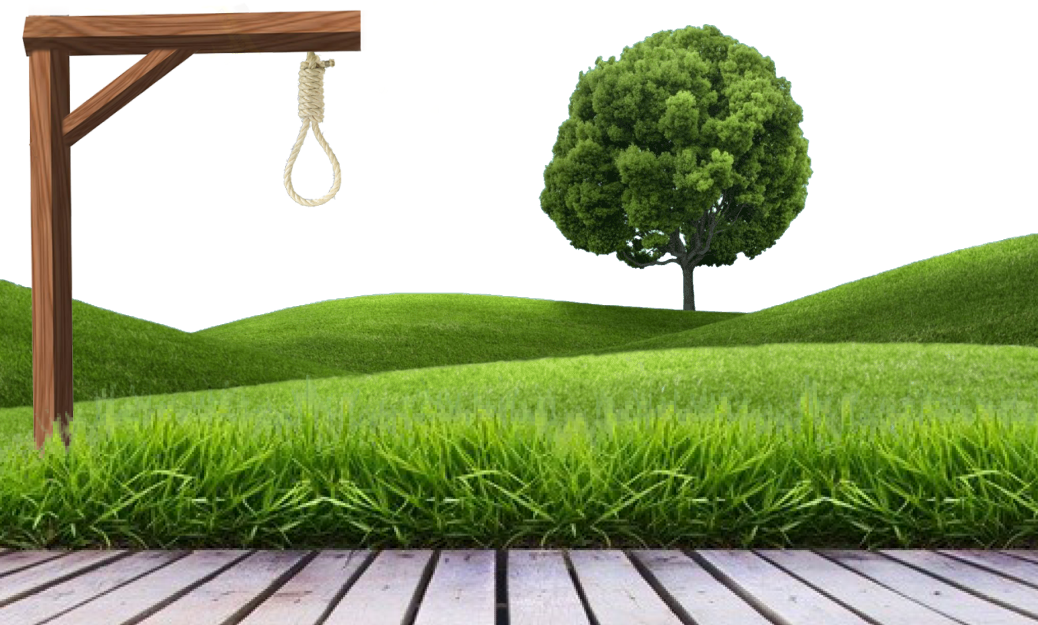
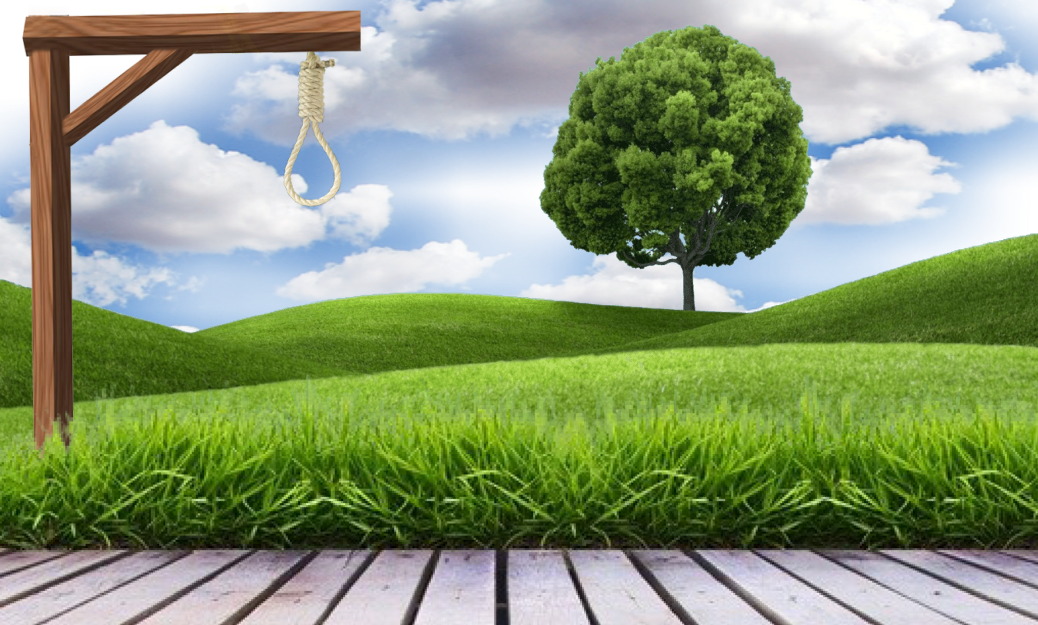
Updating to ALMOST work

Changed region(s): [[0.0617, 0.0, 1.0, 0.5472], [0.0, 0.1824, 0.0308, 0.456]]

diff --git a/DrawScene.hpp b/DrawScene.hpp
@@ -3,29 +3,47 @@
 #include "WordManager.hpp"
 #include <atomic>
 #include <optional>
+#include <iostream>
 
 #define MAX_TRIES 5
 #define WHITE ImColor(255, 255, 255, 255)
 
 bool debug = true;
+bool game = true;
+
 Renderer* RENDERER = new Renderer;
 std::optional<string> RandWord = RandomWord();
 
+const char* message = "";
+char letter;
+
+vector<char> used;
+
 void DrawScene()
-{	
-	auto word = RandWord.value().c_str();
+{
+	int NumWrongGuesses = 0;
+	auto word = RandWord.value();
 
-    // Handle Float to Char and Display FPS
-    char buffer[64];
-    int ret = snprintf(buffer, sizeof buffer, "%.f FPS", ImGui::GetIO().Framerate);
-    RENDERER->DrawTextW(ImVec2(1, 1), WHITE, buffer);
+	// Handle Float to Char and Display FPS
+	char buffer[64];
+	int ret = snprintf(buffer, sizeof buffer, "%.f FPS", ImGui::GetIO().Framerate);
+	RENDERER->DrawTextW(ImVec2(1, 1), WHITE, buffer);
 
-	// DEBUG: Get a new word when button is pressed.
+	// DEBUG: Display Debug Info about the Game.
 	if (debug) {
-		ImGui::Begin("Debug", &debug);
+		ImGui::Begin("Debug", &debug, ImGuiWindowFlags_NoResize);
+		ImGui::SetWindowSize(ImVec2(250, 100));
 		ImGui::Text("Current Word: %s", word);
+		ImGui::Text("Current Number of Guesses: %i", NumWrongGuesses);
 		ImGui::End();
 	}
+
+	// Draw the Bottom where all the text goes.
+	ImGui::Begin("Game", &game, ImGuiWindowFlags_NoResize | ImGuiWindowFlags_NoMove | ImGuiWindowFlags_NoTitleBar);
+	ImGui::SetWindowSize(ImVec2(1020, 100));
+	ImGui::SetWindowPos(ImVec2(0, 576));
+	ImGui::Text(message);
+	ImGui::End();
 
 	// Draw Head
 	RENDERER->DrawFilledCircle(ImVec2(305, 125), 50, 50.f, WHITE);
@@ -41,6 +59,32 @@ void DrawScene()
 	RENDERER->DrawLine(ImVec2(305, 200), ImVec2(255, 250), WHITE, 10); // Right Arm
 	RENDERER->DrawLine(ImVec2(305, 200), ImVec2(355, 250), WHITE, 10); // Left Arm
 
-    // Draw Word
-    RENDERER->DrawTextW(ImVec2(500, 200), WHITE, word);
+	// Initialize the secret word with the * character.
+	string HiddenWord(word.length(), '*');
+
+	// Key Press Loop
+	for (letter = 'A'; letter <= 'Z'; letter++) {
+		// If a key 'A' through 'Z' is pressed.
+		if (ImGui::IsKeyPressed(letter))
+		{
+			// Get the current word length
+			for (int i = 0; i < word.length(); ++i) {
+				// If the guess is correct, fill secret word with the letter.
+				if (word[i] == letter)
+				{
+					
+					HiddenWord[i] = letter;
+					message = "You found a letter! Isn't that exciting!";
+				}
+				// Otherwise increment the number of wrong guesses.
+				else
+				{
+					NumWrongGuesses = NumWrongGuesses + 1;
+					message = "Whoops! That letter isn't in there!";
+				}
+			}
+		}
+	}
+
+	RENDERER->DrawTextW(ImVec2(500, 200), WHITE, HiddenWord.c_str());
 }

diff --git a/main.cpp b/main.cpp
@@ -81,7 +81,7 @@ int main(int, char**)
     ImGui_ImplWin32_EnableDpiAwareness();
     WNDCLASSEX wc = { sizeof(WNDCLASSEX), CS_CLASSDC, WndProc, 0L, 0L, GetModuleHandle(NULL), NULL, NULL, NULL, NULL, _T("Hangman"), NULL };
     ::RegisterClassEx(&wc);
-    HWND hwnd = ::CreateWindow(wc.lpszClassName, _T("Hangman"), WS_OVERLAPPEDWINDOW, 100, 100, 1038, 625, NULL, NULL, wc.hInstance, NULL);
+    HWND hwnd = ::CreateWindow(wc.lpszClassName, _T("Hangman"), WS_OVERLAPPEDWINDOW, 100, 100, 1038, 723, NULL, NULL, wc.hInstance, NULL);
 
     // Initialize Direct3D
     if (!CreateDeviceD3D(hwnd))
@@ -117,7 +117,7 @@ int main(int, char**)
     ImFont* ArialFont = io.Fonts->AddFontFromFileTTF("C:\\Windows\\Fonts\\Arial.ttf", 18.0f, NULL, io.Fonts->GetGlyphRangesJapanese());
     IM_ASSERT(ArialFont != NULL);
 
-    ImVec4 clear_color = ImVec4(0.45f, 0.55f, 0.60f, 1.00f);
+    ImVec4 clear_color = ImVec4(0.176470588f, 0.658823529f, 0.898039216f, 1.00f);
 
     // Main loop
     MSG msg;

diff --git a/WordManager.hpp b/WordManager.hpp
@@ -33,23 +33,3 @@ string RandomWord()
     // Fetch the line where line index (starting from 0) matches with the random number
     return lines[random_number];
 }
-
-int HandleGuess(char guess, string secretword, string& guessword)
-{
-    int i;
-    int matches = 0;
-    int len = secretword.length();
-    for (i = 0; i < len; i++)
-    {
-        // Did we already match this letter in a previous guess?
-        if (guess == guessword[i]) return 0;
-
-        // Is the guess in the word?
-        if (guess == secretword[i])
-        {
-            guessword[i] = guess;
-            matches++;
-        }
-    }
-    return matches;
-}

diff --git a/Renderer.h b/Renderer.h
@@ -15,7 +15,6 @@ public:
     void DrawHealthBar(ImVec2 pos, ImVec2 dim, ImColor col);
     void DrawFilledCircle(ImVec2 pos, float radius, float segments, ImColor col);
     bool IsFullscreen(HWND windowHandle);
-    void DrawButton(ImVec2 pos);
     ImDrawList* GetDrawList();
     ImVec2 GetWindowSize();
     ImVec2 GetWindowMiddle();

diff --git a/Renderer.cpp b/Renderer.cpp
@@ -12,14 +12,6 @@ bool Renderer::OnScreen(ImVec2 coords)
     }
 }
 
-void Renderer::DrawButton(ImVec2 pos)
-{
-    if (this->OnScreen(pos))
-    {
-        this->GetDrawList()->AddDrawCmd();
-    }
-}
-
 void Renderer::DrawBox(ImVec2 pos, ImVec2 dim, ImColor color, int thickness)
 {
     if (this->OnScreen(pos))

diff --git a/Style.h b/Style.h
@@ -8,4 +8,6 @@ void SetupStyle()
 	ImGuiIO& io = ImGui::GetIO();
 
 	style.WindowPadding = ImVec2(0, 0);
+	style.WindowBorderSize = 0.f;
+	style.PopupBorderSize = 0.f;
 }
